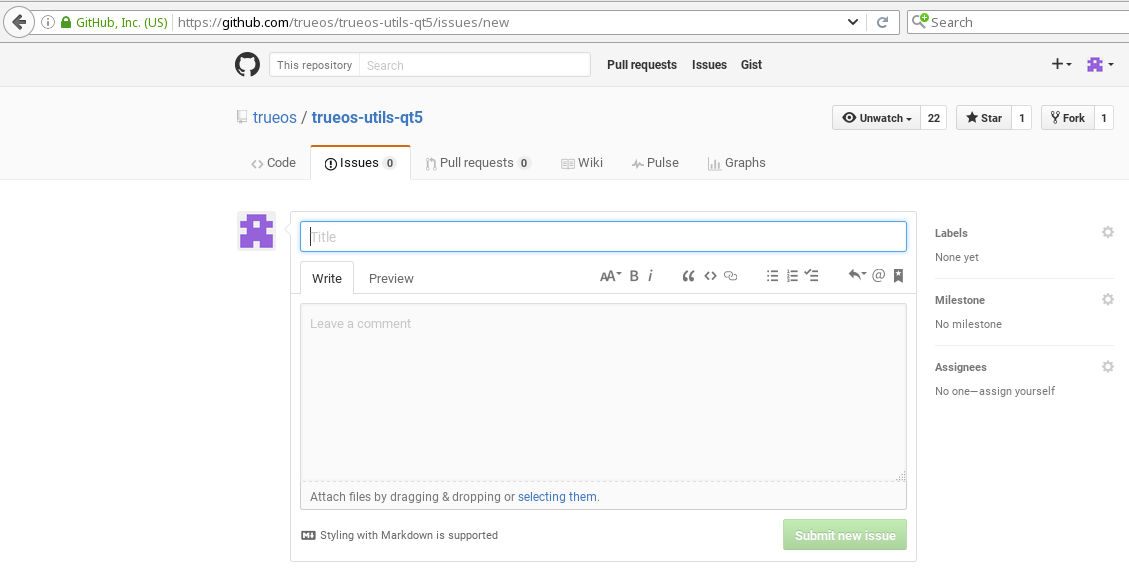
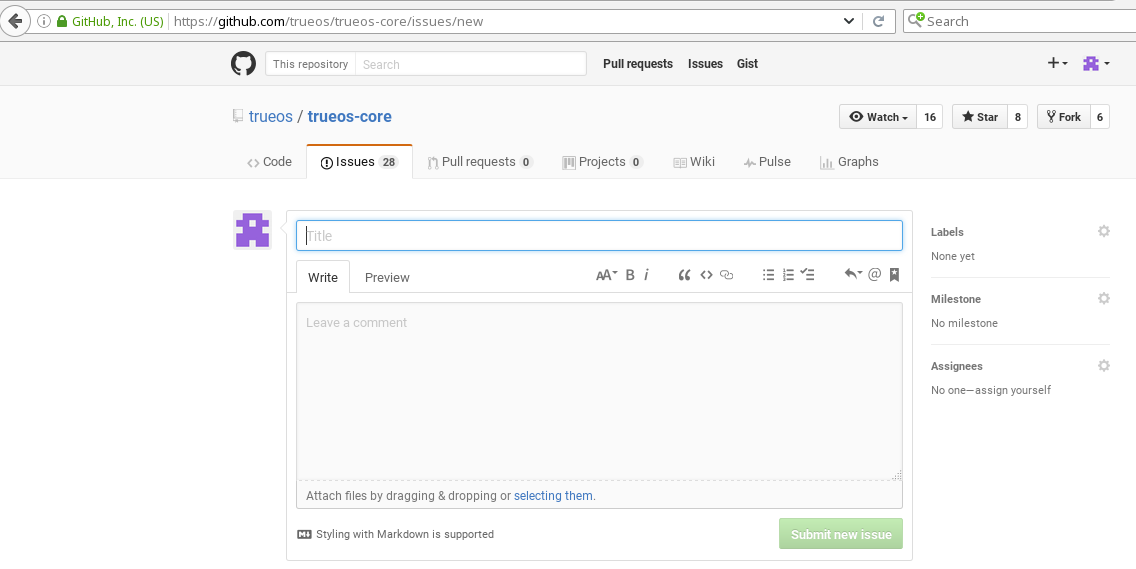
Update screenshot and text to indicate which repos to report issues to.

diff --git a/trueos-handbook/help.rst b/trueos-handbook/help.rst
@@ -98,16 +98,16 @@ ensure a speedy response:
 
 * The TrueOS® code has been organized into repositories that represent
   the Lumina desktop, the graphical utilities, SysAdm™, and various
-  other applications. Select the repository that most closely matches
-  the application that has a bug. If you are in doubt, select the
-  "trueos-utils-qt5" repository.
+  other applications. When reporting a bug, select the "trueos-core"
+  repository. If the bug is specific to Lumina, instead select the
+  "lumina" repository.
    
-* Once you have clicked a repostitory name, use the "Search" bar on its
-  page to confirm no similar bug report exists. If a similar report does
-  exist, add any additional information to the report via a comment.
-  While it is not required to log in to search existing bugs, adding a
-  comment or creating a new report does require signing into the
-  website.
+* Once you have clicked the repostitory name, use the "Search" bar on
+  its page to confirm no similar bug report exists. If a similar
+  report does exist, add any additional information to the report via
+  a comment. While it is not required to log in to search existing
+  bugs, adding a comment or creating a new report does require signing
+  into the website.
 
 * To create a new bug report,
   click :menuselection:`Issues --> New Issue` within the repository.
